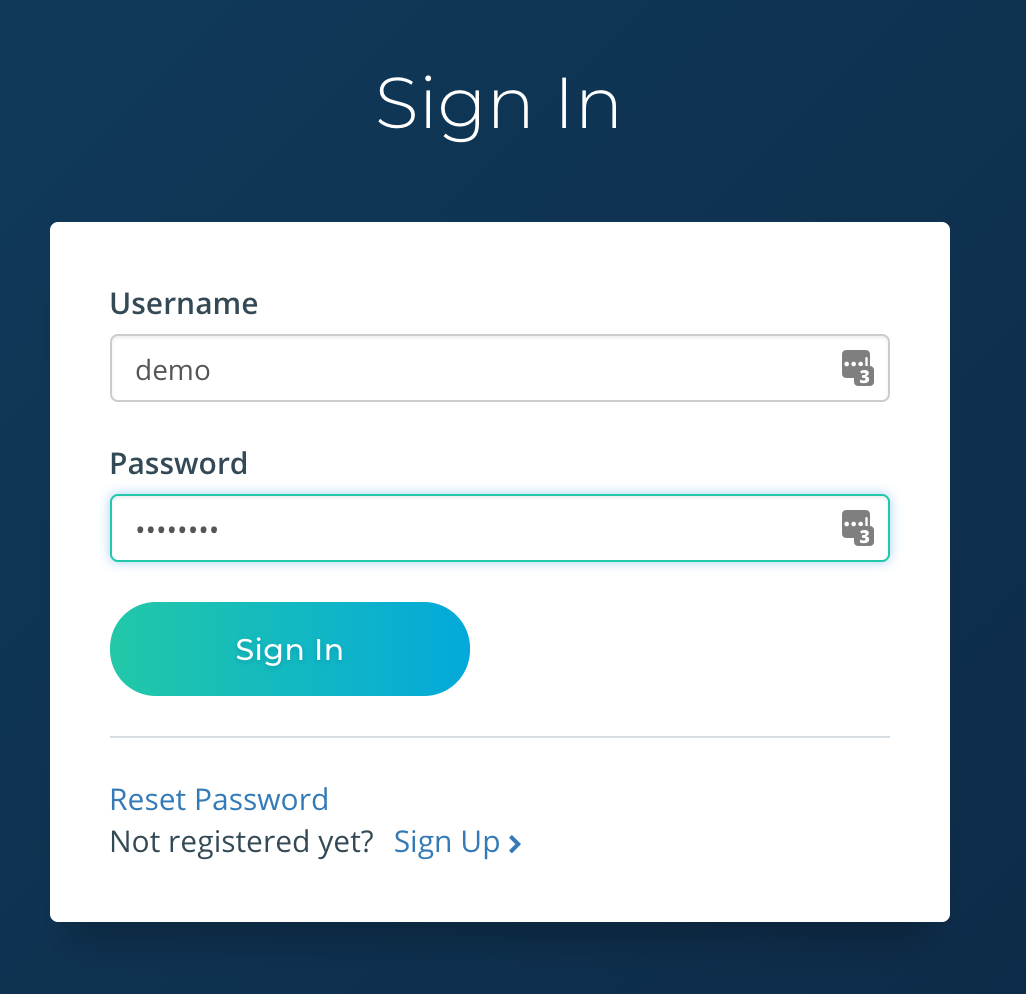
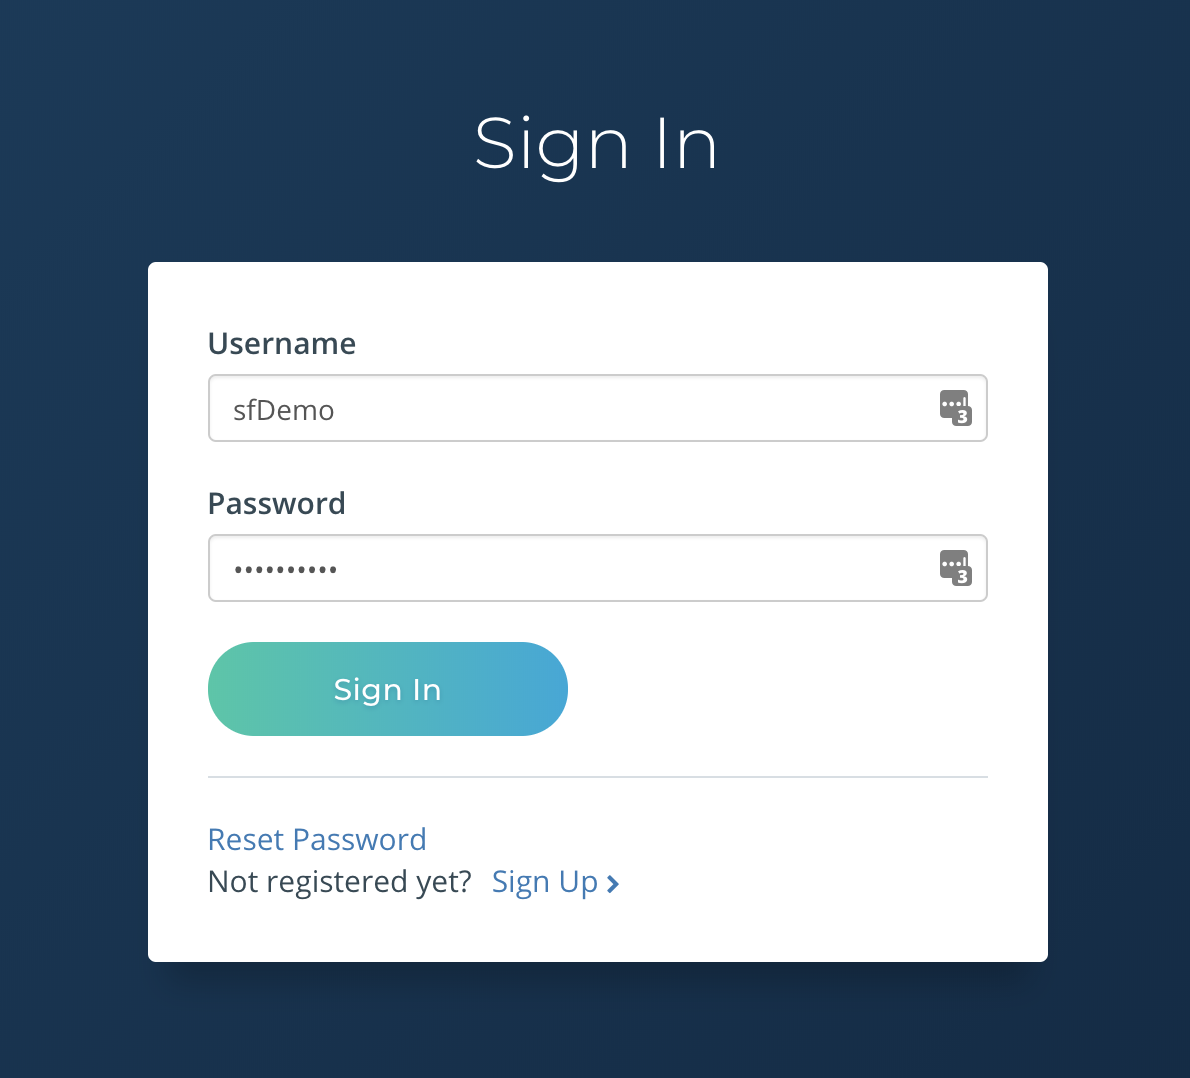
update tutorial

Changed region(s): [[0.0312, 0.2183, 0.9357, 0.9356], [0.3743, 0.0624, 0.6238, 0.1559]]

diff --git a/docs/onPremise.md b/docs/onPremise.md
@@ -47,7 +47,7 @@ This command will finish and you will have a virtual machine running StatEngine.
 
 2.  Click the ```Sign In``` button on right side of the top navigation bar.  Login to the application using the following credentials
 
-  > username: ```demo```
+  > username: ```sfDemo```
 
   > password: ```password```
 
@@ -55,9 +55,10 @@ This command will finish and you will have a virtual machine running StatEngine.
 
 3.  Click the ```Dashboard``` button to access your the data.  That's it. Simple as that!
 
-  > Screenshot to be supplied.
+  ![dashboard](assets/dashboard.png)
 
-### Next Steps
+
+### Next Steps˝
 
 For more information on how to use StatEngine, check out the [User Guide](userGuide.md) for more info on how to use the dashboard or checkout some of the other [resources](resources).  
 
@@ -84,59 +85,121 @@ Raw fire incident data will vary from source to source, but generally we can exp
 A sample *raw* source file from San Francisco:
 ```
 {
-     ":@computed_region_ajp5_b2md": "21",
-     ":@computed_region_bh8s_q3mv": "28857",
-     ":@computed_region_fyvs_ahh9": "21",
-     ":@computed_region_jx4q_fizf": "1",
-     ":@computed_region_p5aj_wyqh": "1",
-     ":@computed_region_rxqg_mtj9": "10",
-     ":@computed_region_yftq_j783": "5",
-     "address": "600 Block of POWELL ST",
-     "als_unit": false,
-     "available_dttm": "2017-10-08T21:32:36.000",
-     "battalion": "B01",
-     "box": "1361",
-     "call_date": "2017-10-08T00:00:00.000",
-     "call_final_disposition": "Fire",
-     "call_number": "172813828",
-     "call_type": "Alarms",
-     "call_type_group": "Alarm",
-     "city": "San Francisco",
-     "dispatch_dttm": "2017-10-08T21:31:12.000",
-     "entry_dttm": "2017-10-08T21:31:05.000",
-     "final_priority": "3",
-     "fire_prevention_district": "1",
-     "incident_number": "17118402",
-     "location": {
-         "type": "Point",
-         "coordinates": [
-             -122.408784626776,
-             37.790494992376
-         ]
-     },
-     "neighborhoods_analysis_boundaries": "Nob Hill",
-     "number_of_alarms": "1",
-     "original_priority": "3",
-     "priority": "3",
-     "received_dttm": "2017-10-08T21:29:39.000",
-     "rowid": "172813828-T13",
-     "station_area": "02",
-     "supervisor_district": "3",
-     "unit_id": "T13",
-     "unit_sequence_in_call_dispatch": "3",
-     "unit_type": "TRUCK",
-     "watch_date": "2017-10-08T00:00:00.000",
-     "zipcode_of_incident": "94108"
+  "address": "500 Block of WALLER ST",
+  "als_unit": false,
+  "available_dttm": "2017-06-23T20:35:46.000",
+  "battalion": "B05",
+  "box": "3635",
+  "call_date": "2017-06-23T00:00:00.000",
+  "call_final_disposition": "Fire",
+  "call_number": "171743725",
+  "call_type": "Alarms",
+  "call_type_group": "Alarm",
+  "city": "San Francisco",
+  "dispatch_dttm": "2017-06-23T20:34:06.000",
+  "entry_dttm": "2017-06-23T20:33:40.000",
+  "final_priority": "3",
+  "fire_prevention_district": "5",
+  "incident_number": "17073664",
+  "location": {
+    "type": "Point",
+    "coordinates": [-122.432321754736, 37.770966902634]
+  },
+  "neighborhoods_analysis_boundaries": "Haight Ashbury",
+  "number_of_alarms": "1",
+  "original_priority": "3",
+  "priority": "3",
+  "received_dttm": "2017-06-23T20:30:09.000",
+  "rowid": "171743725-B05",
+  "station_area": "06",
+  "supervisor_district": "5",
+  "unit_id": "B05",
+  "unit_sequence_in_call_dispatch": "3",
+  "unit_type": "CHIEF",
+  "watch_date": "2017-06-23T00:00:00.000",
+  "zipcode_of_incident": "94117"
 }
 ```
-The resulting normalized incident:
-> To be supplied.
+The resulting normalized message:
+```
+{
+  "address": {
+    "address_id": "",
+    "address_line1": "500 Block of WALLER ST",
+    "city": "San Francisco",
+    "postal_code": "94117",
+    "response_zone": "3635",
+    "state": "CA",
+    "longitude": -122.432321754736,
+    "latitude": 37.770966902634,
+    "battalion": "B05",
+    "first_due": "06",
+    "neighborhood": "Haight Ashbury",
+    "geohash": "9q8yvgzxb4s1"
+  },
+  "description": {
+    "event_opened": "2017-06-23T20:33:40-07:00",
+    "event_closed": "2017-06-23T20:35:46-07:00",
+    "type": "Alarms",
+    "subtype": "Alarm",
+    "event_id": "171743725",
+    "incident_number": "17073664",
+    "psap_answer_time": "2017-06-23T20:30:09-07:00",
+    "category": "FIRE",
+    "hour_of_day": 20,
+    "day_of_week": "Friday",
+    "shift": "C",
+    "priority": "3",
+    "alarms": 1,
+    "extended_data": {
+      "psap_answer_time_to_event_creation": 211,
+      "event_duration": 126
+    }
+  },
+  "apparatus": [
+    {
+      "unit_id": "B05",
+      "unit_type": "Chief Officer",
+      "unit_status": {
+        "dispatched": {
+          "timestamp": "2017-06-23T20:34:06-07:00"
+        },
+        "available": {
+          "timestamp": "2017-06-23T20:35:46-07:00"
+        }
+      },
+      "shift": "C",
+      "extended_data": {
+        "event_duration": 100
+      }
+    }
+  ],
+  "fire_department": {
+    "fd_id": "38005",
+    "firecares_id": "94264",
+    "name": "San Francisco Fire Department",
+    "state": "CA",
+    "timezone": "US/Pacific"
+  },
+  "version": "0.0.1"
+}
+```
 
-You will notice the same information appears in both structures, but mapped to different fields.  For example, incident_number, ***17118402*** is mapped to *description.incident_number* in the normalized incident.
+You will notice the same information appears in both structures, but mapped to different fields.  For example, incident_number, ***17073664*** is mapped to *description.incident_number* in the normalized incident.
 
-You may also notice mapped, but also transformed fields.  For example, the unit_type ***TRUCK*** not only appears under *apparatus[index].unit_type*, but is also *transformed* to ***Truck/Aerial***.
+You may also notice mapped, but also transformed fields.  For example, the unit_type ***CHIEF*** not only appears under *apparatus[index].unit_type*, but is also *transformed* to ***Chief Officer***.
 
 Siamese projects can do any number for mappings, transformations, or other modifications to *raw* source data.
+
+#### Ingest Semantics
+
+When designing a siamese project, please keep the following semantics in mind:
+
+* **Out-of-order processing**: All attempts should be made to send data in order.  However, if the server can detect the event time (either by message timestamp or file naming conventions) the server-side processing can handle out-of-order arrival.
+
+* **At-least once processing**: The server-side processing gurantees a message will be processed at-least once.  Therefore, resending the same message should not impact the final normalized message.
+
+* **Upsert processing**:  Messages concerning the same incident are merged and upserted. This enables desirable message semantics such as the ability to send partial messages that only contain a single apparatus.  Nil (```null``` or ```undefined```) fields are filtered out prior to merging.
 
 #### Developing your own Siamese project
 
@@ -146,7 +209,25 @@ The following prerequisites are needed
 
 * [node.js](https://nodejs.org/en/)
 * [npm](https://www.npmjs.com/get-npm)
+* FIRECARES Information regarding your department
 
+  1.  Visit [FIRECARES](https://firecares.org)
+  2.  Search for your department
+  ![firecares](assets/firecares.png)
+  3.  Navigate to appropriate search result.
+  ![firecaresResult](assets/firecaresResult.png)
+
+  4.  Record the following information:
+
+    a) FDID
+
+    b) Name
+
+    c) State
+
+    d) FIRECARES ID (this is the number that appears in the URL. e.g. ***94264***)
+
+##### Generating Stubs
 
 1. Install Yeoman
 
@@ -164,9 +245,53 @@ The following prerequisites are needed
   yo siamese
   ```
 
-> More to follow....
+4. Answer questions accordingly:
+
+  ![yoSiamese](assets/yoSiamese.png)
+
+5. Develop!
+
+  As a example, lets look at how we can normalize the address via ```normalizeAddress()```:
+  ```
+  normalizeAddress() {
+    const payload = this.payload;
+
+    const address = {
+      address_id: '',
+      address_line1: payload.address,
+      city: payload.city,
+      postal_code: payload.zipcode_of_incident,
+      response_zone: payload.box,
+      state: 'CA',
+      longitude: parseFloat(payload.location.coordinates[0]),
+      latitude: parseFloat(payload.location.coordinates[1]),
+      battalion: payload.battalion,
+      first_due: payload.station_area,
+      neighborhood: payload.neighborhoods_analysis_boundaries,
+    };
+
+    address.geohash = IncidentNormalizer.latLongToGeohash(address.longitude, address.latitude);
+
+    return address;
+  }
+  ```
+  This function implements basic mappings from raw source to the expected locations in the schema.  
+  This example is fairly straigtforward, but the normalization logic can be as advanced as you like.  
+  At this point on your on!  We suggest diving into the
+  demo [source](https://github.com/StatEngine/siamese-san-francisco-demo) to see some more advanced examples.
 
 
-### Part 2:  Ingesting Real-time Data with Spade
+### Part 2:  Adding a Siamese project to Stat Engine
 
-> To be supplied.
+After developing a siamese project, lets now add it to the ingest pipeline.
+On the machine running the appliance:
+
+1.  ```vagrant ssh```
+2.  ```cd plugins```
+3.  ```npm install siamese-san-francisco-demo```
+4.  ```docker restart stat-engine-ingest-worker```
+
+### Part 3:  Sending data
+
+We suggest using Spade to send the raw data to StatEngine.
+Head over [here](https://statengine.io/spade) to get started sending the raw data.   
